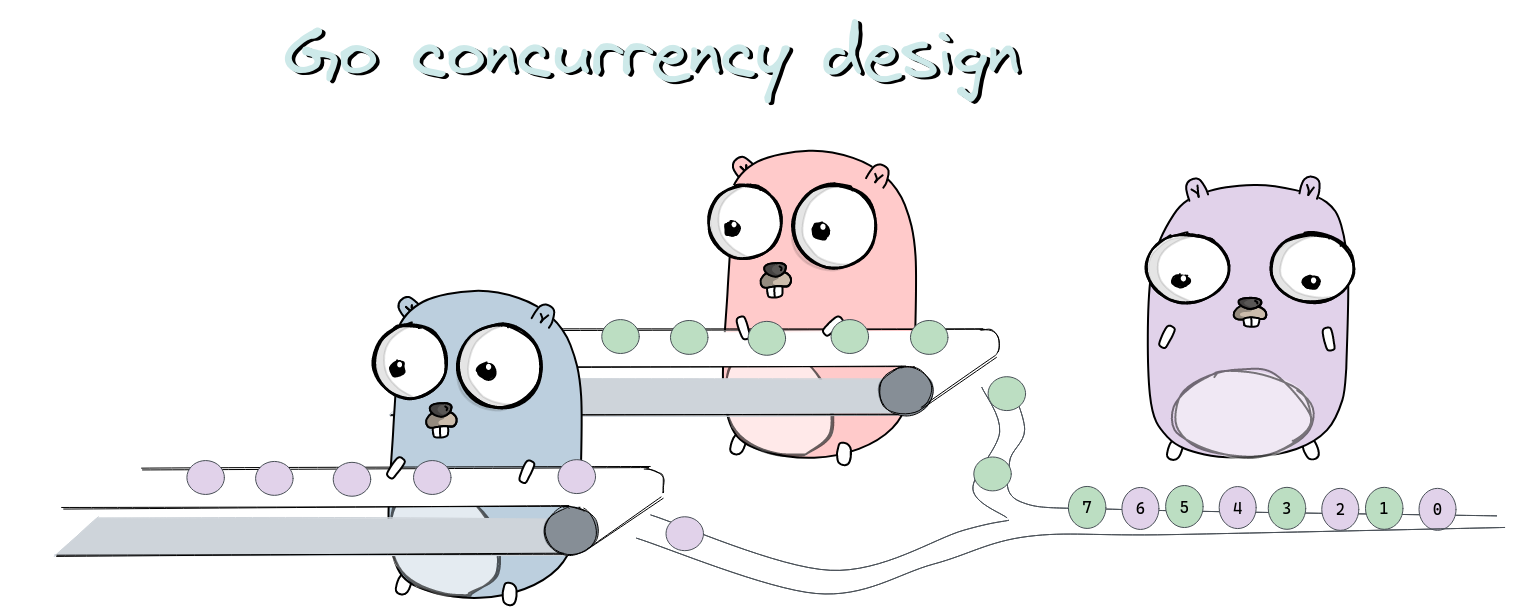
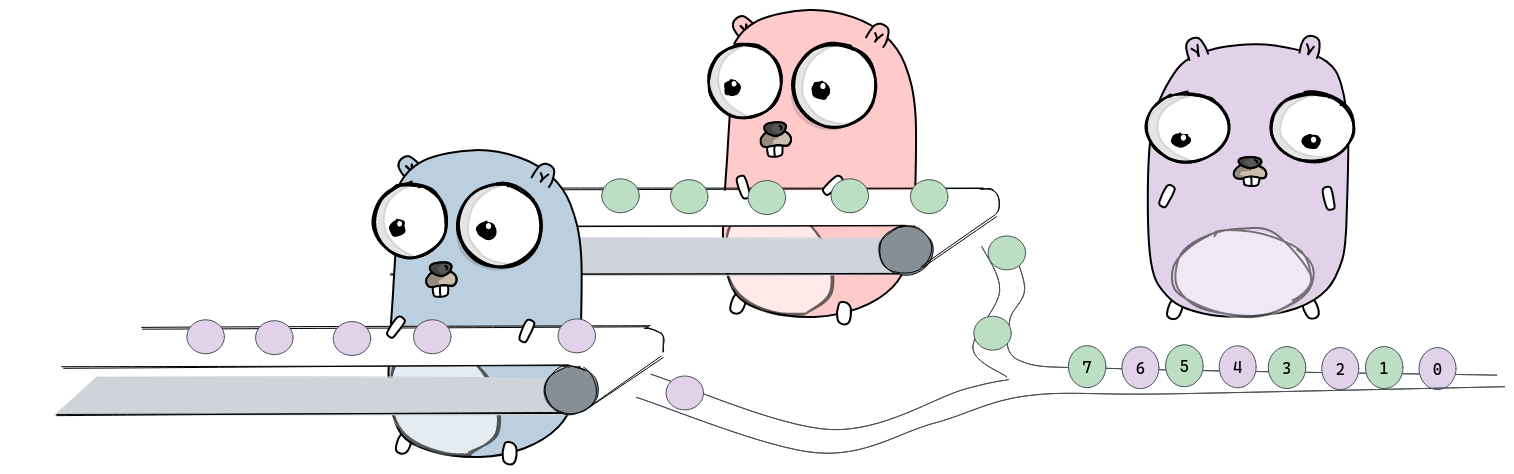
Style with header

Changed region(s): [[0.031, 0.0, 0.9934, 1.0]]

diff --git a/docs/index.html b/docs/index.html
@@ -4,7 +4,9 @@
 <head>
 <title>Go concurrency</title>
 <meta name="viewport" content="width=device-width, initial-scale=1"/>
-<style>html, body {
+<style>@import url('https://fonts.googleapis.com/css?family=Inconsolata|Source+Sans+Pro');
+html, body {
+font-family: 'Source Sans Pro', sans-serif;
 margin: 0 0;
 padding: 0 0;
 }
@@ -16,16 +18,17 @@ height: calc( 100vh - 50px);
 }
 .slide header {
 display: block;
-border: 1px solid #f2f2f2;
+border: 1px solid #cde9e9;
 height: 10vh;
 margin: 0 0;
-background-color: #f2f2f2;
+background-color: #cde9e9;
+vertical-align: center;
 }
 header h2 {
 font-size: 3vh;
 }
 .slide .content {
-padding: 2vh 4vh;
+padding: 2vh 10vh;
 }
 .slide ul, p, pre {
 text-align: left;
@@ -93,6 +96,7 @@ background-repeat: repeat-y;
 background-position: right top;
 display: block;
 text-align: left;
+font-family: Inconsolata;
 }
 .srcfile code .line {
 display: block;
@@ -154,7 +158,8 @@ color: darkgreen;
 </style>
 </head>
 <body>
-<div class="slide" id="1"><header><br/></header>
+<div class="slide" id="1"><header><h1>Go concurrency design</h1>
+</header>
 <div class="content"><a href="#2"><img src="cotalk.png"/></a><br/><br/><br/><span>Gregory Vinčić, 2023</span><br/><br/><br/><nav><ul>
 <li class="current"><a href="#1">1</a></li>
 <li><a href="#2">2</a></li>
@@ -187,7 +192,7 @@ color: darkgreen;
 </nav>
 </div>
 </div>
-<div class="slide" id="2"><header><h1>Content</h1>
+<div class="slide" id="2"><header><h2>Content</h2>
 </header>
 <div class="content"><ul class="group">
 <li>background and history</li>

diff --git a/presentation.go b/presentation.go
@@ -24,7 +24,7 @@ func Presentation() *deck {
 	alg := &algorithms{current: 1, atLine: 9} // 8 where first func starts
 
 	d.Slide(
-		Br(),
+		H1("Go concurrency design"),
 		A(Href("#2"), Img(Src("cotalk.png"))),
 		Br(), Br(), Br(),
 		Span("Gregory Vinčić, 2023"),
@@ -33,7 +33,7 @@ func Presentation() *deck {
 	)
 
 	d.Slide(
-		H1("Content"),
+		H2("Content"),
 
 		Ul(Class("group"),
 			Li("background and history"), Li("goroutines"), Li("channels"),
@@ -500,7 +500,10 @@ func highlightColors() *CSS {
 
 func theme() *CSS {
 	css := NewCSS()
+	css.Import("https://fonts.googleapis.com/css?family=Inconsolata|Source+Sans+Pro")
+
 	css.Style("html, body",
+		"font-family: 'Source Sans Pro', sans-serif",
 		"margin: 0 0",
 		"padding: 0 0",
 	)
@@ -511,19 +514,20 @@ func theme() *CSS {
 		"text-align: center",
 		"height: calc( 100vh - 50px)",
 	)
-	bg := "#f2f2f2"
+	bg := "#cde9e9"
 	css.Style(".slide header",
 		"display: block",
 		"border: 1px solid "+bg, // needed to make it without margins ?!
 		"height: 10vh",
 		"margin: 0 0",
 		"background-color: "+bg,
+		"vertical-align: center",
 	)
 	css.Style("header h2",
 		"font-size: 3vh",
 	)
 	css.Style(".slide .content",
-		"padding: 2vh 4vh",
+		"padding: 2vh 10vh",
 	)
 	css.Style(".slide ul, p, pre",
 		"text-align: left",
@@ -596,6 +600,7 @@ func theme() *CSS {
 		"background-position: right top",
 		"display: block",
 		"text-align: left",
+		"font-family: Inconsolata",
 	)
 	css.Style(".srcfile code .line", // each line
 		"display: block",
